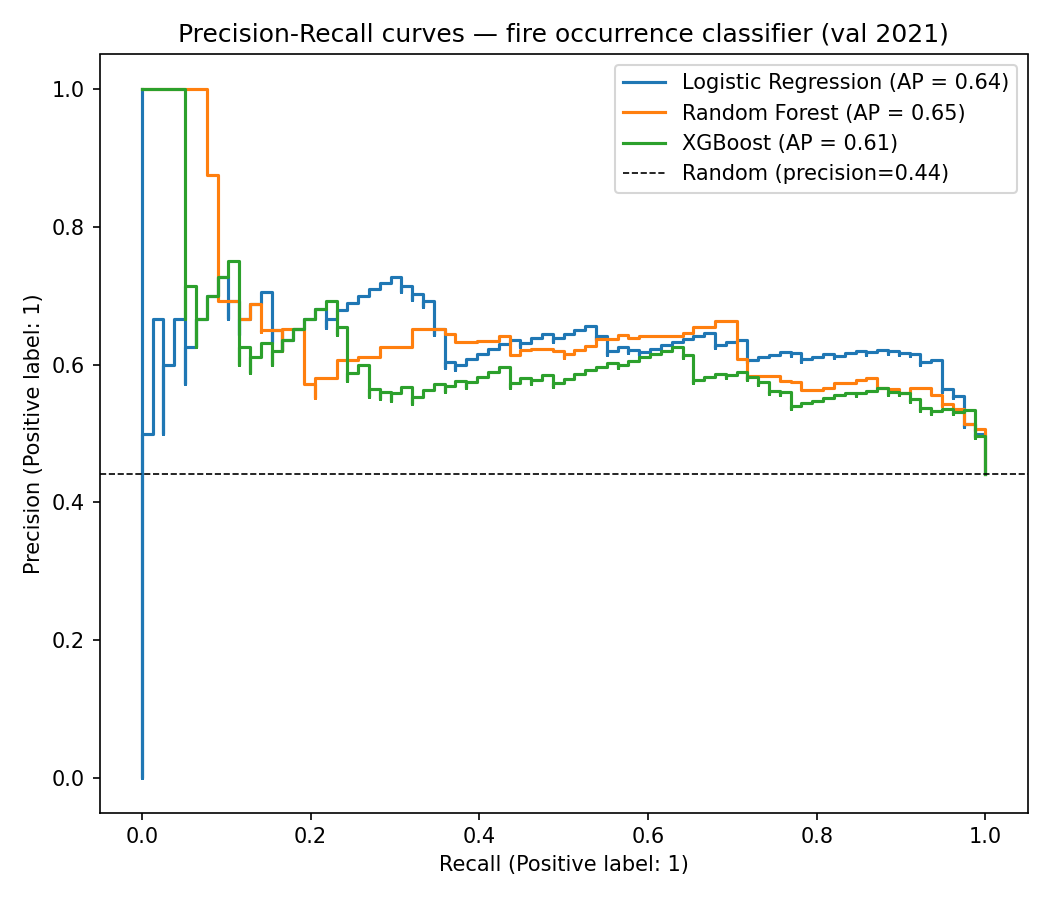
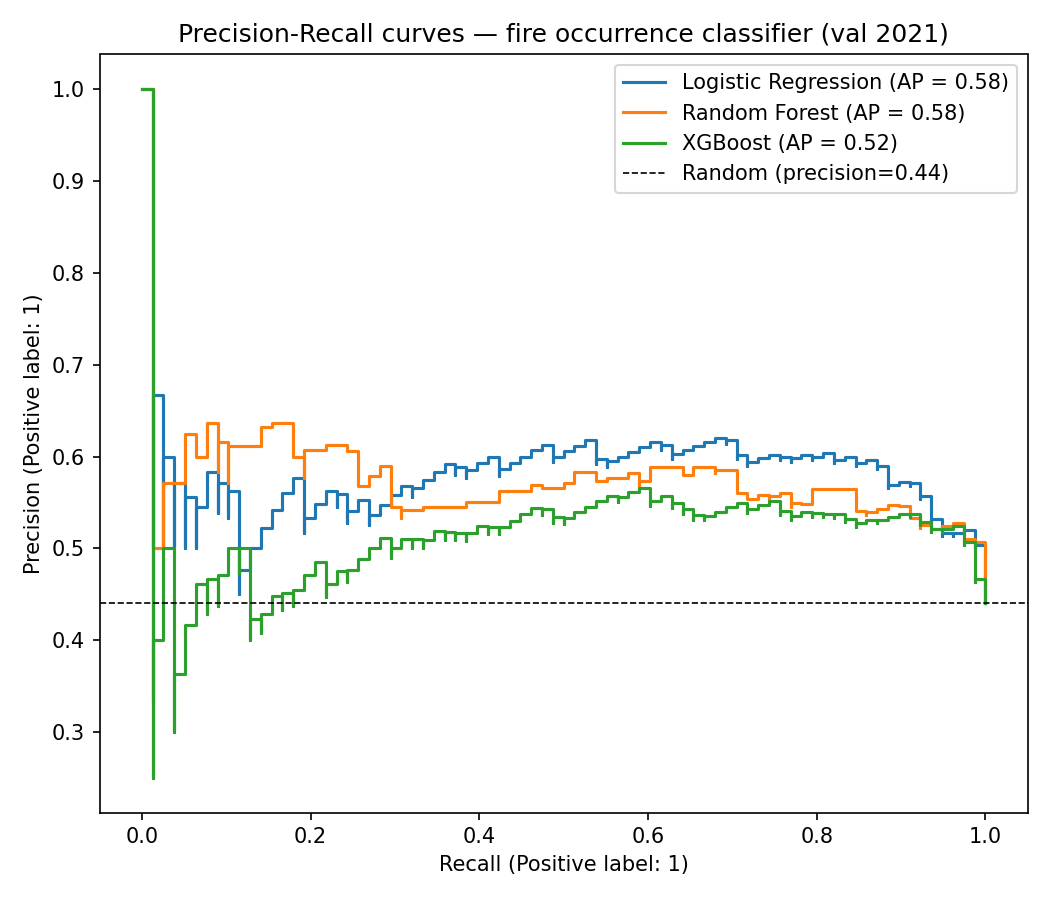
Reduce feature set to 8+1 independent features, add LR hyperparameter tuning with PredefinedSplit, final evaluation on held-out test set (2022-2023)

diff --git a/src/model_classifier_final.py b/src/model_classifier_final.py
@@ -1,0 +1,147 @@
+import pandas as pd
+import numpy as np
+import matplotlib.pyplot as plt
+from pathlib import Path
+
+from sklearn.pipeline import Pipeline
+from sklearn.compose import ColumnTransformer
+from sklearn.preprocessing import StandardScaler, OneHotEncoder
+from sklearn.linear_model import LogisticRegression
+from sklearn.model_selection import GridSearchCV, PredefinedSplit
+from sklearn.metrics import (
+    roc_auc_score, brier_score_loss,
+    RocCurveDisplay, PrecisionRecallDisplay,
+)
+
+DATA = Path(__file__).parent.parent / "data"
+
+DROP_COLS = ["date", "lat", "lon", "burned_area_ha", "duration_days",
+             "ignition_cause", "municipality_id", "target"]
+
+NUMERIC_FEATURES = [
+    "temperature", "humidity",
+    "temperature_anom", "wind_speed_anom", "precipitation_anom",
+    "population", "gdp_per_capita", "infrastructure_density",
+]
+CATEGORICAL_FEATURES = ["land_use"]
+
+# --------------------------------------------------------------------------- #
+# Load & split
+# --------------------------------------------------------------------------- #
+df = pd.read_csv(DATA / "features.csv", parse_dates=["date"])
+
+X = df.drop(columns=DROP_COLS)
+y = df["target"]
+
+nan_mask = X.isnull().any(axis=1)
+X, y     = X[~nan_mask], y[~nan_mask]
+dates    = df.loc[~nan_mask, "date"]
+print(f"Dropped {nan_mask.sum()} rows with missing feature values")
+print(f"Remaining — target=0: {(y == 0).sum()} | target=1: {(y == 1).sum()} | total: {len(y)}")
+
+train_mask = dates.dt.year <= 2020
+val_mask   = dates.dt.year == 2021
+test_mask  = dates.dt.year >= 2022
+
+X_train, y_train = X[train_mask], y[train_mask]
+X_val,   y_val   = X[val_mask],   y[val_mask]
+X_test,  y_test  = X[test_mask],  y[test_mask]
+
+X_train = X_train[NUMERIC_FEATURES + CATEGORICAL_FEATURES]
+X_val   = X_val[NUMERIC_FEATURES + CATEGORICAL_FEATURES]
+X_test  = X_test[NUMERIC_FEATURES + CATEGORICAL_FEATURES]
+
+print(f"Train : {len(X_train)} rows (2014-2020)")
+print(f"Val   : {len(X_val)}   rows (2021)")
+print(f"Test  : {len(X_test)}  rows (2022-2023)")
+
+# --------------------------------------------------------------------------- #
+# Preprocessing
+# --------------------------------------------------------------------------- #
+preprocessor = ColumnTransformer([
+    ("num", Pipeline([("scale", StandardScaler())]),                                             NUMERIC_FEATURES),
+    ("cat", Pipeline([("enc",   OneHotEncoder(handle_unknown="ignore", sparse_output=False))]),  CATEGORICAL_FEATURES),
+])
+
+# --------------------------------------------------------------------------- #
+# Hyperparameter tuning — PredefinedSplit keeps the temporal order
+# Train indices: -1  |  Val indices: 0
+# --------------------------------------------------------------------------- #
+X_tv = pd.concat([X_train, X_val])
+y_tv = pd.concat([y_train, y_val])
+
+test_fold = np.concatenate([
+    np.full(len(X_train), -1),
+    np.zeros(len(X_val)),
+])
+ps = PredefinedSplit(test_fold)
+
+pipe = Pipeline([
+    ("pre", preprocessor),
+    ("clf", LogisticRegression(max_iter=1000, random_state=42)),
+])
+
+param_grid = {"clf__C": np.logspace(-3, 3, 10).tolist()}
+
+search = GridSearchCV(pipe, param_grid, cv=ps, scoring="roc_auc", refit=True)
+search.fit(X_tv, y_tv)
+
+print("\nHyperparameter search results:")
+for mean, params in zip(search.cv_results_["mean_test_score"], search.cv_results_["params"]):
+    print(f"  C={params['clf__C']:<8.4f} — AUC-ROC: {mean:.4f}")
+
+print(f"\nBest C: {search.best_params_['clf__C']}  (val AUC: {search.best_score_:.4f})")
+
+# --------------------------------------------------------------------------- #
+# Plot: val AUC vs C
+# --------------------------------------------------------------------------- #
+c_values = [p["clf__C"] for p in search.cv_results_["params"]]
+auc_values = search.cv_results_["mean_test_score"]
+
+fig_c, ax_c = plt.subplots(figsize=(7, 4))
+ax_c.plot(c_values, auc_values, marker="o", color="steelblue")
+ax_c.axvline(search.best_params_["clf__C"], color="crimson", linestyle="--",
+             label=f"Best C={search.best_params_['clf__C']}")
+ax_c.set_xscale("log")
+ax_c.set_xlabel("C  (regularisation strength, log scale)")
+ax_c.set_ylabel("AUC-ROC on val (2021)")
+ax_c.set_title("Hyperparameter tuning — Logistic Regression")
+ax_c.legend()
+fig_c.tight_layout()
+fig_c.savefig(DATA.parent / "notebooks" / "lr_tuning.png", dpi=150)
+plt.show()
+
+# --------------------------------------------------------------------------- #
+# Final evaluation on test set — touched only once
+# --------------------------------------------------------------------------- #
+best_model = search.best_estimator_
+proba_test = best_model.predict_proba(X_test)[:, 1] # predict
+auc_test   = roc_auc_score(y_test, proba_test) # evaluate AOC
+brier_test = brier_score_loss(y_test, proba_test) # evaluate Brier score 
+
+print(f"\nFinal evaluation on test set (2022-2023):")
+print(f"  AUC-ROC     : {auc_test:.4f}")
+print(f"  Brier score : {brier_test:.4f}")
+
+# --------------------------------------------------------------------------- #
+# Plot
+# --------------------------------------------------------------------------- #
+fig_roc, ax_roc = plt.subplots(figsize=(7, 6))
+fig_pr,  ax_pr  = plt.subplots(figsize=(7, 6))
+
+RocCurveDisplay.from_predictions(y_test, proba_test, name=f"LR tuned (AUC={auc_test:.3f})", ax=ax_roc)
+ax_roc.plot([0, 1], [0, 1], "k--", linewidth=0.8)
+ax_roc.set_title("ROC curve — tuned Logistic Regression (test 2022-2023)")
+fig_roc.tight_layout()
+fig_roc.savefig(DATA.parent / "notebooks" / "roc_final.png", dpi=150)
+
+PrecisionRecallDisplay.from_predictions(y_test, proba_test, name="LR tuned", ax=ax_pr)
+baseline = y_test.mean()
+ax_pr.axhline(baseline, color="black", linewidth=0.8, linestyle="--", label=f"Random (precision={baseline:.2f})")
+ax_pr.legend()
+ax_pr.set_title("PR curve — tuned Logistic Regression (test 2022-2023)")
+fig_pr.tight_layout()
+fig_pr.savefig(DATA.parent / "notebooks" / "pr_final.png", dpi=150)
+
+plt.show()
+print("\nPlots saved to notebooks/")

diff --git a/src/model_classifier_validation.py b/src/model_classifier_validation.py
@@ -25,11 +25,10 @@ DATA = Path(__file__).parent.parent / "data"
 DROP_COLS = ["date", "lat", "lon", "burned_area_ha", "duration_days",
              "ignition_cause", "municipality_id", "target"]
 
+# Reduced set — correlated features removed (see notes/14_feature_selection_classifier.md)
 NUMERIC_FEATURES = [
-    "temperature", "humidity", "wind_speed", "precipitation", "ndvi",
-    "temperature_7d", "humidity_7d", "wind_speed_7d", "precipitation_7d", "ndvi_7d",
-    "fwi", "fwi_7d",
-    "temperature_anom", "humidity_anom", "wind_speed_anom", "precipitation_anom", "ndvi_anom",
+    "temperature", "humidity",
+    "temperature_anom", "wind_speed_anom", "precipitation_anom",
     "population", "gdp_per_capita", "infrastructure_density",
 ]
 CATEGORICAL_FEATURES = ["land_use"]
@@ -42,7 +41,6 @@ df = pd.read_csv(DATA / "features.csv", parse_dates=["date"])
 X = df.drop(columns=DROP_COLS)
 y = df["target"]
 
-# Drop rows that still have NaN in any feature column (boundary points outside municipality coverage)
 nan_mask = X.isnull().any(axis=1)
 X, y     = X[~nan_mask], y[~nan_mask]
 dates    = df.loc[~nan_mask, "date"]
@@ -57,21 +55,18 @@ val_mask   = dates.dt.year == 2021
 X_train, y_train = X[train_mask], y[train_mask]
 X_val,   y_val   = X[val_mask],   y[val_mask]
 
+X_train = X_train[NUMERIC_FEATURES + CATEGORICAL_FEATURES]
+X_val   = X_val[NUMERIC_FEATURES + CATEGORICAL_FEATURES]
+
 print(f"Train : {len(X_train)} rows (2014-2020)")
 print(f"Val   : {len(X_val)}   rows (2021)")
 
 # --------------------------------------------------------------------------- #
 # Preprocessing pipeline
 # --------------------------------------------------------------------------- #
-numeric_pipe = Pipeline([
-    ("scale", StandardScaler()),
-])
-categorical_pipe = Pipeline([
-    ("encode", OneHotEncoder(handle_unknown="ignore", sparse_output=False)),
-])
 preprocessor = ColumnTransformer([
-    ("num", numeric_pipe,      NUMERIC_FEATURES),
-    ("cat", categorical_pipe,  CATEGORICAL_FEATURES),
+    ("num", Pipeline([("scale", StandardScaler())]),                                             NUMERIC_FEATURES),
+    ("cat", Pipeline([("enc",   OneHotEncoder(handle_unknown="ignore", sparse_output=False))]),  CATEGORICAL_FEATURES),
 ])
 
 # --------------------------------------------------------------------------- #
@@ -100,26 +95,29 @@ models = {
 fig_roc, ax_roc = plt.subplots(figsize=(7, 6))
 fig_pr,  ax_pr  = plt.subplots(figsize=(7, 6))
 
-for name, pipe in models.items():
-    pipe.fit(X_train, y_train) # train
+val_aucs = {}
 
-    proba_val = pipe.predict_proba(X_val)[:, 1] # predict on val
-    auc       = roc_auc_score(y_val, proba_val) # compute AUC-ROC
-    brier     = brier_score_loss(y_val, proba_val) # compute Brier score
+for name, pipe in models.items():
+    pipe.fit(X_train, y_train)
+
+    proba_val    = pipe.predict_proba(X_val)[:, 1]
+    auc          = roc_auc_score(y_val, proba_val)
+    brier        = brier_score_loss(y_val, proba_val)
+    val_aucs[name] = auc
 
     print(f"\n{name}")
     print(f"  Val (2021) — AUC-ROC: {auc:.4f} | Brier: {brier:.4f}")
 
-    RocCurveDisplay.from_predictions(y_val, proba_val, name=f"{name} (AUC={auc:.3f})", ax=ax_roc) # display ROC curve
-    PrecisionRecallDisplay.from_predictions(y_val, proba_val, name=name, ax=ax_pr) # display Precision-Recall curve
+    RocCurveDisplay.from_predictions(y_val, proba_val, name=f"{name} (AUC={auc:.3f})", ax=ax_roc)
+    PrecisionRecallDisplay.from_predictions(y_val, proba_val, name=name, ax=ax_pr)
 
 ax_roc.set_title("ROC curves — fire occurrence classifier (val 2021)")
-ax_roc.plot([0, 1], [0, 1], "k--", linewidth=0.8) # reference random model
+ax_roc.plot([0, 1], [0, 1], "k--", linewidth=0.8)
 fig_roc.tight_layout()
 fig_roc.savefig(DATA.parent / "notebooks" / "roc_curves.png", dpi=150)
 
 baseline = y_val.mean()
-ax_pr.axhline(baseline, color="black", linewidth=0.8, linestyle="--", label=f"Random (precision={baseline:.2f})") # reference random model
+ax_pr.axhline(baseline, color="black", linewidth=0.8, linestyle="--", label=f"Random (precision={baseline:.2f})")
 ax_pr.legend()
 ax_pr.set_title("Precision-Recall curves — fire occurrence classifier (val 2021)")
 fig_pr.tight_layout()
@@ -127,3 +125,9 @@ fig_pr.savefig(DATA.parent / "notebooks" / "pr_curves.png", dpi=150)
 
 plt.show()
 print("\nPlots saved to notebooks/")
+
+# --------------------------------------------------------------------------- #
+# Model selection
+# --------------------------------------------------------------------------- #
+best_name = max(val_aucs, key=val_aucs.get)
+print(f"\nBest model on val (2021): {best_name} — AUC-ROC: {val_aucs[best_name]:.4f}")